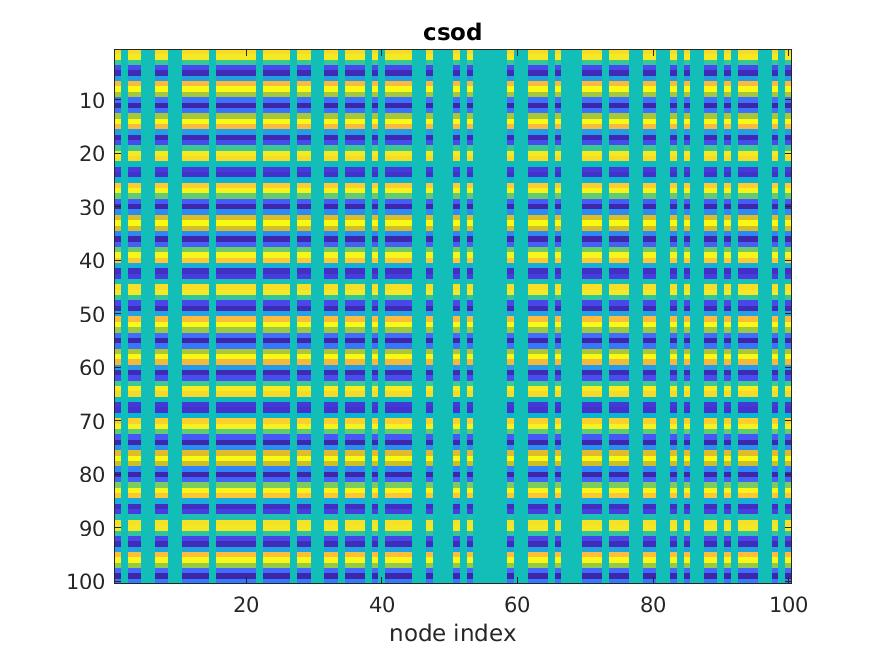
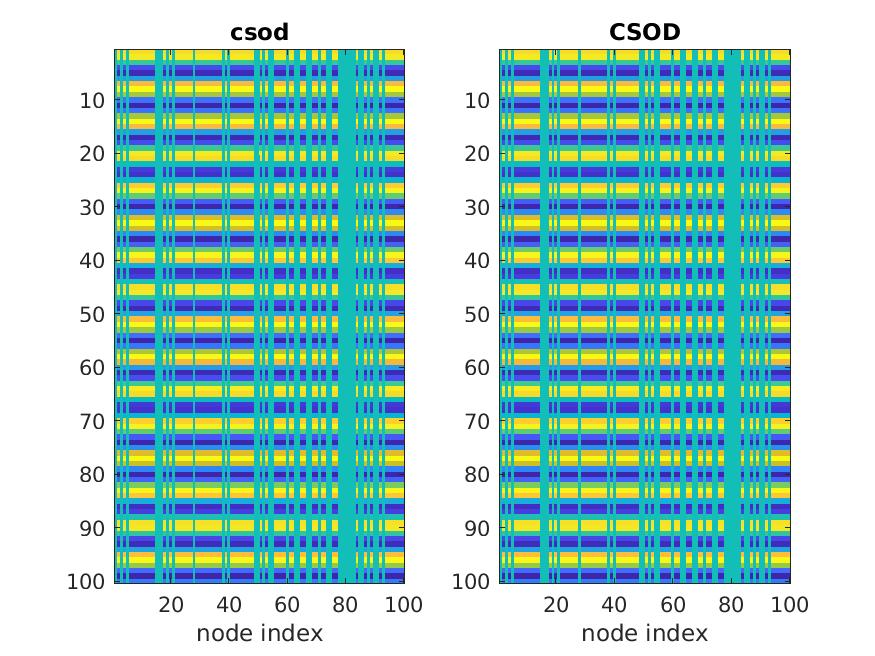
functions

diff --git a/Codes/Ali/classify_main.m b/Codes/Ali/classify_main.m
@@ -4,14 +4,14 @@ n = 100;
 
 % simulate chimera types to test 
 
-% % simulate death state
-% Y = ones(n,1)*rand(1,n);
+% simulate death state
+Y = ones(n,1)*rand(1,n);
 
 % simulate random
 % Y = rand(n,n); 
-
- % simulate sync / CSOD / amp_chim
-Y = sin((1:n))'*ones(1,n);
+% 
+%  % simulate sync / CSOD / amp_chim
+% Y = sin((1:n))'*ones(1,n);
 
 %  % simulate CSOD
 % rnd = rand(1,n);
@@ -20,18 +20,25 @@ Y = sin((1:n))'*ones(1,n);
 %     Y(:,rnd(i)) = zeros(n,1);
 % end
 
-% simulate amp_chim
-ran1 = randi([1 n/2],1);
-ran2 = randi([n/2 n],1);
-size = ran2 - ran1 + 1;
-eps = rand(2,size);
-for i = 1:length(eps)
-    Y(:, ran1 + i - 1) = eps(1,i) + eps(2,i).*Y(:, ran1 + i - 1);
-end
+% % simulate amp_chim
+% ran1 = randi([1 n/2],1);
+% ran2 = randi([n/2 n],1);
+% size = ran2 - ran1 + 1;
+% eps = rand(2,size);
+% for i = 1:length(eps)
+%     Y(:, ran1 + i - 1) = eps(1,i) + eps(2,i).*Y(:, ran1 + i - 1);
+% end
 
+subplot(1,2,1)
 class = classify(Y);
 imagesc(Y)
 title(class)
+xlabel('node index')
+
+subplot(1,2,2)
+classx = classify_x(Y);
+imagesc(Y)
+title(classx)
 xlabel('node index')
 
 saveas(gcf,'classifier results/cooked example' + class,'jpeg')

diff --git a/Codes/Ali/classify_x.m b/Codes/Ali/classify_x.m
@@ -1,0 +1,38 @@
+function class = classify_x(Y)
+% arg: matrix Y(t,x), t=time, x=node
+% made a function of Xinzhu's code
+
+    class = [];
+    TOL1 = 1e-4;
+    TOL2 = 1e-8;
+    
+    % calculate standard deviations
+    delta = std(Y);
+    delta_nonzero = Y(find(delta>=TOL1));
+    N2 = length(delta_nonzero);
+    
+    % calculate absolute differences between columns
+    diff = zeros(N2,N2);
+    for i = 1:N2
+        for j = 1:N2
+            diff(i,j) = abs( abs(delta_nonzero(i))-abs(delta_nonzero(j)) );
+        end
+    end
+    
+    if all(abs(Y(end,:)) < TOL1)
+        class = "oscillation death"; %% CHECK
+    elseif any(abs(delta) < TOL2)
+        if all(abs(delta) < TOL2)
+            class = "chimera death"; % CHECK
+        elseif any(diff >= TOL1)
+            class = "amplitude chimera and stable zero steady state"; %%CHECK
+        else
+            class = "CSOD"; % CHECK
+        end
+    elseif any(diff >= TOL1)
+        class = "amplitude chimera state";
+    elseif any(diff <= TOL1)
+        class = "synchronized oscillation";
+    end
+
+end

diff --git a/Codes/Ali/classify.m b/Codes/Ali/classify.m
@@ -1,7 +1,8 @@
 function class = classify(Y)
+% crude classifier
 % arg: matrix Y(t,x), t=time, x=node
 
-    states = ["death","sync","amp chim/chim","csod","mixed amp chim and death","chaos"];
+    states = ["death","sync","amplitude chimera or chimera","csod","mixed amplitude chimera and death","chaos"];
     
     class = [];
     TOL = 1e-6;
